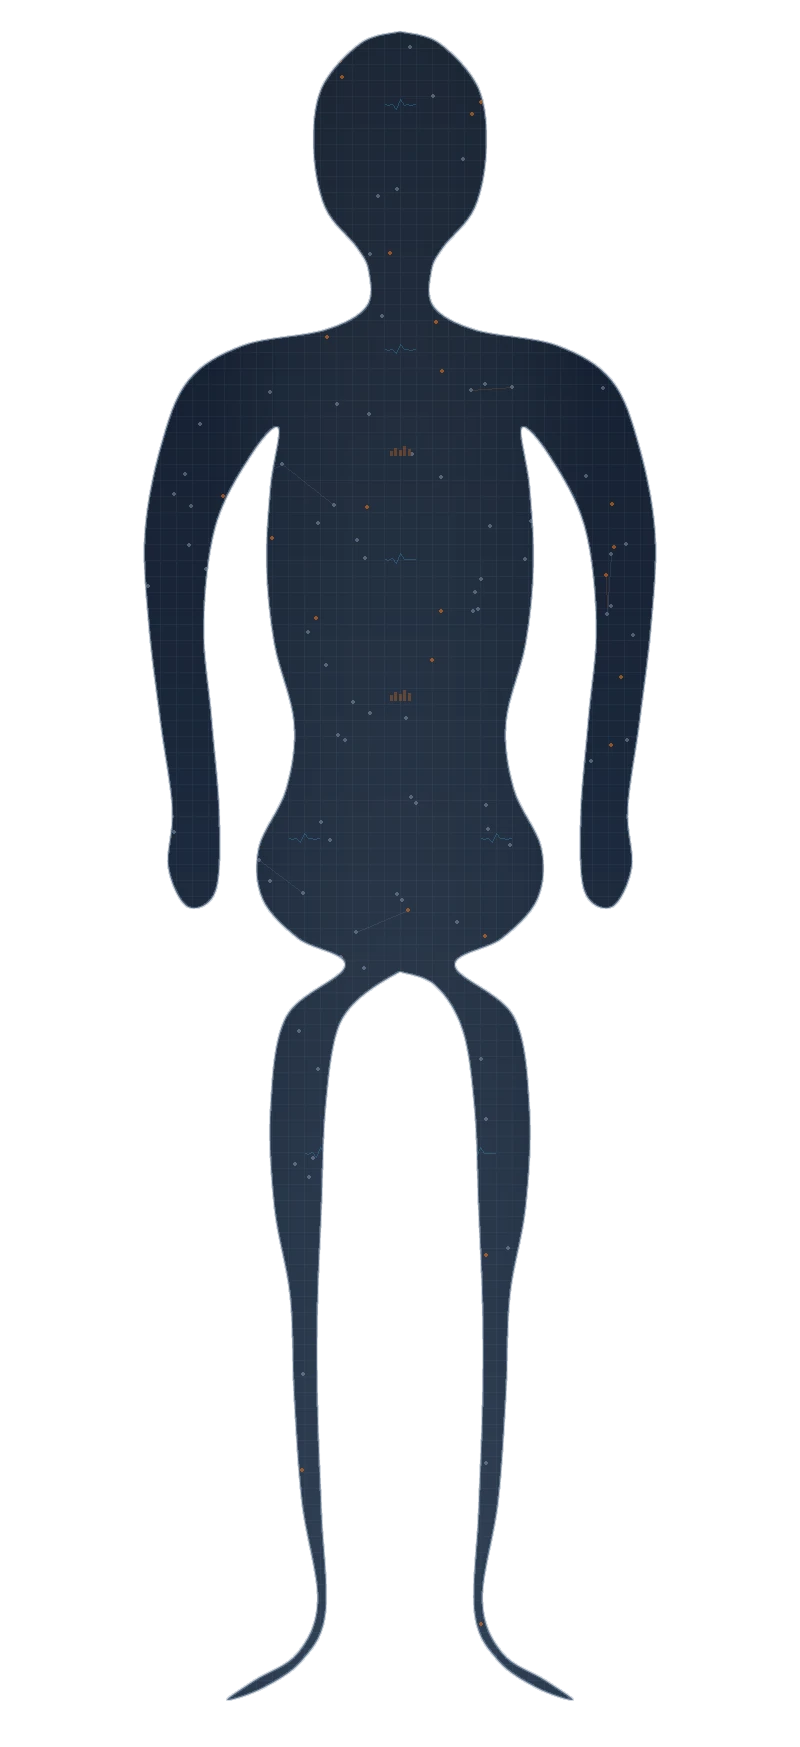
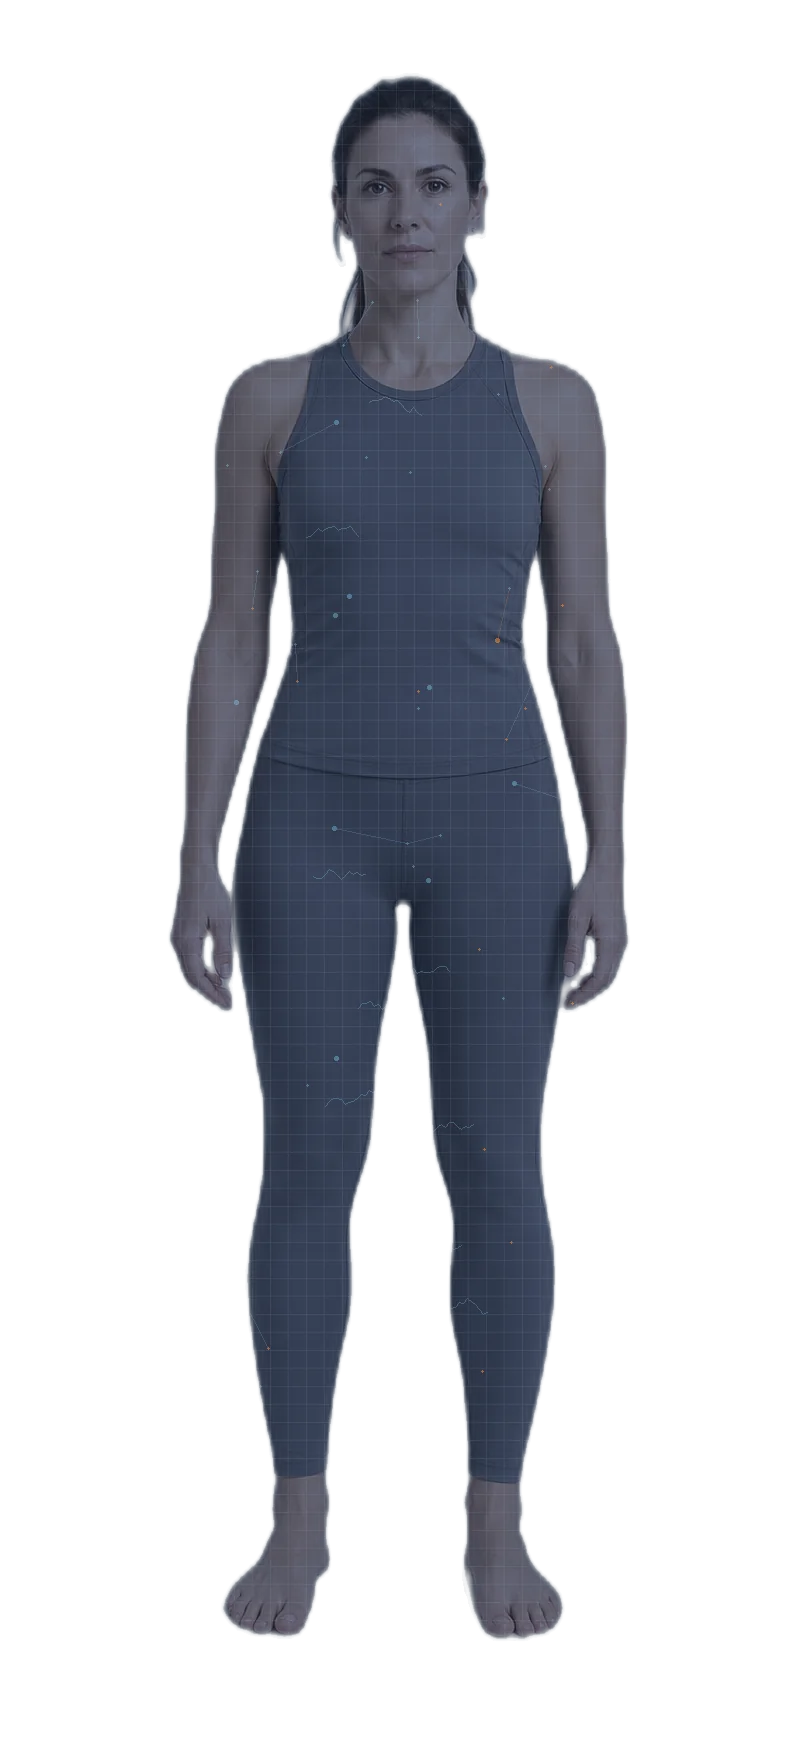
Replace gingerbread HDM blob with photorealistic human cutout.
Use a standing photographic figure as the body shape, apply clinical
math-grid/node treatment as an alpha-clipped overlay (no neon outline),
and realign category hotspots to real anatomy landmarks.

Changed region(s): [[0.1562, 0.0, 0.8438, 0.9891]]

diff --git a/src/components/home/humanDataModel/bodyCubes.ts b/src/components/home/humanDataModel/bodyCubes.ts
@@ -1,4 +1,4 @@
-/** Hotspot grid aligned to the anatomical WebP silhouette (head → feet). */
+/** Hotspot grid aligned to the photorealistic WebP figure (head → feet). */
 export const COLS = 5;
 export const ROWS = 11;
 export const RADIUS = 18;
@@ -14,46 +14,46 @@ export interface BodyCube {
 
 /**
  * Equal cells; L/R symmetric.
- * Positions tuned to the smooth anatomical WebP contour
- * (egg head, neck, sloping shoulders, waist taper, hip flare, thicker limbs).
+ * Positions tuned to the photographic standing cutout
+ * (real head/shoulders/waist/limbs — not an SVG cookie outline).
  */
 export const BODY_CUBES: BodyCube[] = [
   // Head / neck
-  { c: 2, r: 0, left: 42.2, top: 3.4, sizeW: 15.6, sizeH: 7.2 },
-  { c: 2, r: 1, left: 42.2, top: 10.4, sizeW: 15.6, sizeH: 7.2 },
+  { c: 2, r: 0, left: 42.8, top: 4.8, sizeW: 14.5, sizeH: 6.5 },
+  { c: 2, r: 1, left: 42.8, top: 11.5, sizeW: 14.5, sizeH: 6.5 },
   // Shoulders / upper chest
-  { c: 1, r: 2, left: 29.0, top: 18.4, sizeW: 15.6, sizeH: 7.2 },
-  { c: 2, r: 2, left: 42.2, top: 18.4, sizeW: 15.6, sizeH: 7.2 },
-  { c: 3, r: 2, left: 55.4, top: 18.4, sizeW: 15.6, sizeH: 7.2 },
+  { c: 1, r: 2, left: 34.0, top: 18.5, sizeW: 14.5, sizeH: 6.5 },
+  { c: 2, r: 2, left: 42.8, top: 18.5, sizeW: 14.5, sizeH: 6.5 },
+  { c: 3, r: 2, left: 51.6, top: 18.5, sizeW: 14.5, sizeH: 6.5 },
   // Mid chest
-  { c: 1, r: 3, left: 29.0, top: 26.4, sizeW: 15.6, sizeH: 7.2 },
-  { c: 2, r: 3, left: 42.2, top: 26.4, sizeW: 15.6, sizeH: 7.2 },
-  { c: 3, r: 3, left: 55.4, top: 26.4, sizeW: 15.6, sizeH: 7.2 },
+  { c: 1, r: 3, left: 33.5, top: 27.0, sizeW: 14.5, sizeH: 6.5 },
+  { c: 2, r: 3, left: 42.8, top: 27.0, sizeW: 14.5, sizeH: 6.5 },
+  { c: 3, r: 3, left: 52.1, top: 27.0, sizeW: 14.5, sizeH: 6.5 },
   // Arms + torso
-  { c: 0, r: 4, left: 15.3, top: 34.4, sizeW: 15.6, sizeH: 7.2 },
-  { c: 1, r: 4, left: 29.0, top: 34.4, sizeW: 15.6, sizeH: 7.2 },
-  { c: 2, r: 4, left: 42.2, top: 34.4, sizeW: 15.6, sizeH: 7.2 },
-  { c: 3, r: 4, left: 55.4, top: 34.4, sizeW: 15.6, sizeH: 7.2 },
-  { c: 4, r: 4, left: 69.0, top: 34.4, sizeW: 15.6, sizeH: 7.2 },
-  { c: 0, r: 5, left: 14.4, top: 42.4, sizeW: 15.6, sizeH: 7.2 },
-  { c: 1, r: 5, left: 29.0, top: 42.4, sizeW: 15.6, sizeH: 7.2 },
-  { c: 2, r: 5, left: 42.2, top: 42.4, sizeW: 15.6, sizeH: 7.2 },
-  { c: 3, r: 5, left: 55.4, top: 42.4, sizeW: 15.6, sizeH: 7.2 },
-  { c: 4, r: 5, left: 69.9, top: 42.4, sizeW: 15.6, sizeH: 7.2 },
+  { c: 0, r: 4, left: 18.5, top: 36.0, sizeW: 14.5, sizeH: 6.5 },
+  { c: 1, r: 4, left: 32.5, top: 36.0, sizeW: 14.5, sizeH: 6.5 },
+  { c: 2, r: 4, left: 42.8, top: 36.0, sizeW: 14.5, sizeH: 6.5 },
+  { c: 3, r: 4, left: 53.0, top: 36.0, sizeW: 14.5, sizeH: 6.5 },
+  { c: 4, r: 4, left: 67.0, top: 36.0, sizeW: 14.5, sizeH: 6.5 },
+  { c: 0, r: 5, left: 19.0, top: 44.0, sizeW: 14.5, sizeH: 6.5 },
+  { c: 1, r: 5, left: 32.8, top: 44.0, sizeW: 14.5, sizeH: 6.5 },
+  { c: 2, r: 5, left: 42.8, top: 44.0, sizeW: 14.5, sizeH: 6.5 },
+  { c: 3, r: 5, left: 52.8, top: 44.0, sizeW: 14.5, sizeH: 6.5 },
+  { c: 4, r: 5, left: 66.5, top: 44.0, sizeW: 14.5, sizeH: 6.5 },
   // Waist / pelvis
-  { c: 1, r: 6, left: 30.6, top: 50.8, sizeW: 15.6, sizeH: 7.2 },
-  { c: 2, r: 6, left: 42.2, top: 50.8, sizeW: 15.6, sizeH: 7.2 },
-  { c: 3, r: 6, left: 53.8, top: 50.8, sizeW: 15.6, sizeH: 7.2 },
+  { c: 1, r: 6, left: 33.0, top: 51.5, sizeW: 14.5, sizeH: 6.5 },
+  { c: 2, r: 6, left: 42.8, top: 51.5, sizeW: 14.5, sizeH: 6.5 },
+  { c: 3, r: 6, left: 52.5, top: 51.5, sizeW: 14.5, sizeH: 6.5 },
   // Thighs
-  { c: 1, r: 7, left: 31.4, top: 59.2, sizeW: 15.6, sizeH: 7.2 },
-  { c: 2, r: 7, left: 42.2, top: 59.2, sizeW: 15.6, sizeH: 7.2 },
-  { c: 3, r: 7, left: 53.0, top: 59.2, sizeW: 15.6, sizeH: 7.2 },
-  { c: 1, r: 8, left: 31.4, top: 67.6, sizeW: 15.6, sizeH: 7.2 },
-  { c: 2, r: 8, left: 42.2, top: 67.6, sizeW: 15.6, sizeH: 7.2 },
-  { c: 3, r: 8, left: 53.0, top: 67.6, sizeW: 15.6, sizeH: 7.2 },
+  { c: 1, r: 7, left: 31.0, top: 59.5, sizeW: 14.5, sizeH: 6.5 },
+  { c: 2, r: 7, left: 42.8, top: 59.5, sizeW: 14.5, sizeH: 6.5 },
+  { c: 3, r: 7, left: 54.5, top: 59.5, sizeW: 14.5, sizeH: 6.5 },
+  { c: 1, r: 8, left: 31.5, top: 67.5, sizeW: 14.5, sizeH: 6.5 },
+  { c: 2, r: 8, left: 42.8, top: 67.5, sizeW: 14.5, sizeH: 6.5 },
+  { c: 3, r: 8, left: 54.0, top: 67.5, sizeW: 14.5, sizeH: 6.5 },
   // Lower legs / feet
-  { c: 1, r: 9, left: 30.4, top: 76.4, sizeW: 15.6, sizeH: 7.2 },
-  { c: 3, r: 9, left: 53.9, top: 76.4, sizeW: 15.6, sizeH: 7.2 },
-  { c: 1, r: 10, left: 30.4, top: 85.6, sizeW: 15.6, sizeH: 7.2 },
-  { c: 3, r: 10, left: 53.9, top: 85.6, sizeW: 15.6, sizeH: 7.2 },
+  { c: 1, r: 9, left: 32.0, top: 76.5, sizeW: 14.5, sizeH: 6.5 },
+  { c: 3, r: 9, left: 53.5, top: 76.5, sizeW: 14.5, sizeH: 6.5 },
+  { c: 1, r: 10, left: 32.5, top: 85.0, sizeW: 14.5, sizeH: 6.5 },
+  { c: 3, r: 10, left: 53.0, top: 85.0, sizeW: 14.5, sizeH: 6.5 },
 ];

diff --git a/src/components/home/humanDataModel/HumanSilhouette.tsx b/src/components/home/humanDataModel/HumanSilhouette.tsx
@@ -199,8 +199,8 @@ function CategoryColumn({
 }
 
 /**
- * Clear human-body silhouette (WebP) with math data-viz fill.
- * Category cubes are translucent hotspots inside the contour — not the figure itself.
+ * Photorealistic standing human (WebP) with math data-viz as overlay treatment.
+ * Category cubes are translucent hotspots on body landmarks — not the figure itself.
  */
 export default function HumanSilhouette({ dark, onSelectCategory }: Props) {
   const { t } = useTranslation();
@@ -280,8 +280,8 @@ export default function HumanSilhouette({ dark, onSelectCategory }: Props) {
 
         <img
           key={dark ? 'hdm-dark' : 'hdm-light'}
-          src={`${dark ? HUMAN_SRC_DARK : HUMAN_SRC_LIGHT}?v=13`}
-          srcSet={`${dark ? HUMAN_SRC_DARK_480 : HUMAN_SRC_LIGHT_480}?v=13 480w, ${dark ? HUMAN_SRC_DARK : HUMAN_SRC_LIGHT}?v=13 800w`}
+          src={`${dark ? HUMAN_SRC_DARK : HUMAN_SRC_LIGHT}?v=14`}
+          srcSet={`${dark ? HUMAN_SRC_DARK_480 : HUMAN_SRC_LIGHT_480}?v=14 480w, ${dark ? HUMAN_SRC_DARK : HUMAN_SRC_LIGHT}?v=14 800w`}
           sizes="(max-width: 640px) 48vw, min(52vw, 728px)"
           alt=""
           width={HUMAN_W}
@@ -291,8 +291,8 @@ export default function HumanSilhouette({ dark, onSelectCategory }: Props) {
           className="pointer-events-none absolute inset-0 z-10 h-full w-full object-contain select-none transition-[filter,opacity] duration-200 ease-out"
           style={{
             filter: dark
-              ? 'brightness(1.01) contrast(1.04)'
-              : 'brightness(1.0) contrast(1.03)',
+              ? 'brightness(1.04) contrast(1.05)'
+              : 'brightness(1.02) contrast(1.04)',
           }}
           draggable={false}
           aria-hidden

diff --git a/src/components/home/humanDataModel/humanAsset.ts b/src/components/home/humanDataModel/humanAsset.ts
@@ -1,6 +1,6 @@
-/** Human body silhouette filled with math data-viz (grid / nodes / sparklines) — WebP + alpha (LCP). */
+/** Photorealistic standing human cutout with math data-viz overlay — WebP + alpha (LCP). */
 export const HUMAN_SRC_DARK = '/hdm-human.webp';
-/** Light-canvas variant of the same anatomical figure. */
+/** Light-canvas variant of the same photographic figure. */
 export const HUMAN_SRC_LIGHT = '/hdm-human-light.webp';
 
 /** Narrower src for phones / small viewports (srcset). */

diff --git a/scripts/generate-hdm-human.py b/scripts/generate-hdm-human.py
@@ -1,0 +1,141 @@
+#!/usr/bin/env python3
+"""Composite photorealistic HDM human: photo cutout + math overlay treatment."""
+from __future__ import annotations
+
+import math
+import random
+from pathlib import Path
+
+from PIL import Image, ImageChops, ImageDraw, ImageEnhance, ImageFilter
+
+ROOT = Path(__file__).resolve().parents[1]
+CUT = ROOT / "scripts/hdm-human-photo-cutout.png"
+OUT_W, OUT_H = 800, 1747
+rng = random.Random(42)
+
+
+def fit_cutout(cut: Image.Image, tw: int, th: int, pad_frac: float = 0.045) -> Image.Image:
+    a = cut.split()[-1]
+    bbox = a.getbbox()
+    if not bbox:
+        raise SystemExit("empty cutout")
+    person = cut.crop(bbox)
+    pw, ph = person.size
+    max_w = int(tw * (1 - 2 * pad_frac))
+    max_h = int(th * (1 - 2 * pad_frac))
+    scale = min(max_w / pw, max_h / ph)
+    nw, nh = max(1, int(pw * scale)), max(1, int(ph * scale))
+    person = person.resize((nw, nh), Image.Resampling.LANCZOS)
+    canvas = Image.new("RGBA", (tw, th), (0, 0, 0, 0))
+    x = (tw - nw) // 2
+    y = max(int(th * pad_frac * 0.6), (th - nh) // 2 - int(th * 0.01))
+    canvas.alpha_composite(person, (x, y))
+    return canvas
+
+
+def clinical_grade(img: Image.Image, dark: bool) -> Image.Image:
+    r, g, b, a = img.split()
+    rgb = Image.merge("RGB", (r, g, b))
+    rgb = ImageEnhance.Color(rgb).enhance(0.55)
+    rgb = ImageEnhance.Contrast(rgb).enhance(1.12)
+    rgb = ImageEnhance.Brightness(rgb).enhance(0.92 if dark else 1.05)
+    rr, gg, bb = rgb.split()
+    rr = rr.point(lambda v: int(v * 0.88 + 8))
+    gg = gg.point(lambda v: int(v * 0.94 + 12))
+    bb = bb.point(lambda v: min(255, int(v * 1.08 + 18)))
+    rgb = Image.merge("RGB", (rr, gg, bb))
+    wash = Image.new("RGB", img.size, (30, 41, 59) if dark else (226, 232, 240))
+    rgb = Image.blend(rgb, wash, 0.35 if dark else 0.18)
+    return Image.merge("RGBA", (*rgb.split(), a))
+
+
+def make_overlay(size: tuple[int, int], dark: bool) -> Image.Image:
+    w, h = size
+    ov = Image.new("RGBA", size, (0, 0, 0, 0))
+    d = ImageDraw.Draw(ov)
+    grid = (148, 163, 184, 38) if dark else (71, 85, 105, 32)
+    accent = (251, 146, 60, 160)
+    cyan = (125, 211, 252, 120) if dark else (14, 165, 233, 90)
+    step = 18
+    for x in range(0, w, step):
+        d.line([(x, 0), (x, h)], fill=grid, width=1)
+    for y in range(0, h, step):
+        d.line([(0, y), (w, y)], fill=grid, width=1)
+    nodes = [
+        (rng.randint(int(w * 0.28), int(w * 0.72)), rng.randint(int(h * 0.08), int(h * 0.92)))
+        for _ in range(70)
+    ]
+    for i, (x1, y1) in enumerate(nodes):
+        for j in range(i + 1, min(i + 6, len(nodes))):
+            x2, y2 = nodes[j]
+            if math.hypot(x2 - x1, y2 - y1) < 90:
+                col = accent if rng.random() < 0.22 else cyan
+                d.line([(x1, y1), (x2, y2)], fill=(*col[:3], 55 if dark else 45), width=1)
+    for x, y in nodes:
+        rad = 1 if rng.random() < 0.7 else 2
+        col = accent if rng.random() < 0.28 else cyan
+        d.ellipse([x - rad, y - rad, x + rad, y + rad], fill=col)
+    for _ in range(10):
+        x0 = rng.randint(int(w * 0.35), int(w * 0.55))
+        y0 = rng.randint(int(h * 0.15), int(h * 0.8))
+        pts = []
+        x, y = x0, y0
+        for _k in range(14):
+            pts.append((x, y))
+            x += 4
+            y += rng.randint(-5, 5)
+        d.line(pts, fill=(*cyan[:3], 90), width=1)
+    return ov
+
+
+def thin_edge(alpha: Image.Image, dark: bool) -> Image.Image:
+    solid = alpha.point(lambda v: 255 if v > 40 else 0)
+    dil = solid.filter(ImageFilter.MaxFilter(3))
+    ero = solid.filter(ImageFilter.MinFilter(3))
+    edge = ImageChops.subtract(dil, ero).filter(ImageFilter.GaussianBlur(0.6))
+    color = (186, 198, 214) if dark else (51, 65, 85)
+    e = edge.point(lambda v: int(v * (0.55 if dark else 0.45)))
+    layer = Image.new("RGBA", alpha.size, (*color, 0))
+    layer.putalpha(e)
+    return layer
+
+
+def compose(dark: bool) -> Image.Image:
+    cut = Image.open(CUT).convert("RGBA")
+    base = fit_cutout(cut, OUT_W, OUT_H)
+    r, g, b, a = base.split()
+    a = a.point(lambda v: 0 if v < 12 else v).filter(ImageFilter.GaussianBlur(0.4))
+    base = Image.merge("RGBA", (r, g, b, a))
+    graded = clinical_grade(base, dark=dark)
+    wash = Image.new("RGBA", graded.size, (15, 23, 42, 0) if dark else (241, 245, 249, 0))
+    wash.putalpha(a.point(lambda v: int(v * (0.28 if dark else 0.12))))
+    graded = Image.alpha_composite(graded, wash)
+    ov = make_overlay(graded.size, dark=dark)
+    ov_r, ov_g, ov_b, ov_a = ov.split()
+    ov_a = ImageChops.multiply(ov_a, a.point(lambda v: int(v * 0.85)))
+    graded = Image.alpha_composite(graded, Image.merge("RGBA", (ov_r, ov_g, ov_b, ov_a)))
+    graded = Image.alpha_composite(graded, thin_edge(a, dark=dark))
+    fr, fg, fb, _ = graded.split()
+    return Image.merge("RGBA", (fr, fg, fb, a))
+
+
+def save_webp(im: Image.Image, path: Path, quality: int = 82) -> None:
+    im.save(path, "WEBP", quality=quality, method=6)
+    print("wrote", path, path.stat().st_size)
+
+
+def main() -> None:
+    if not CUT.exists():
+        raise SystemExit(f"missing cutout master: {CUT}")
+    dark = compose(True)
+    light = compose(False)
+    save_webp(dark, ROOT / "public/hdm-human.webp", 84)
+    save_webp(light, ROOT / "public/hdm-human-light.webp", 84)
+    d480 = dark.resize((480, int(1747 * 480 / 800)), Image.Resampling.LANCZOS)
+    l480 = light.resize((480, int(1747 * 480 / 800)), Image.Resampling.LANCZOS)
+    save_webp(d480, ROOT / "public/hdm-human-480.webp", 80)
+    save_webp(l480, ROOT / "public/hdm-human-light-480.webp", 80)
+
+
+if __name__ == "__main__":
+    main()
